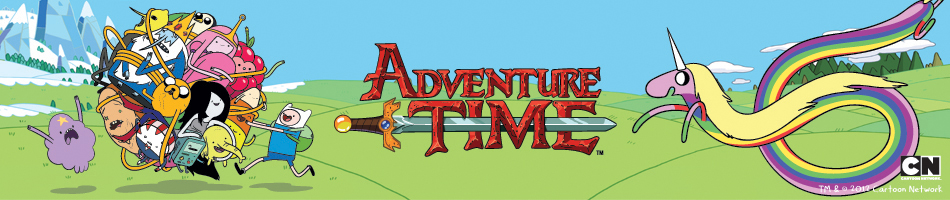
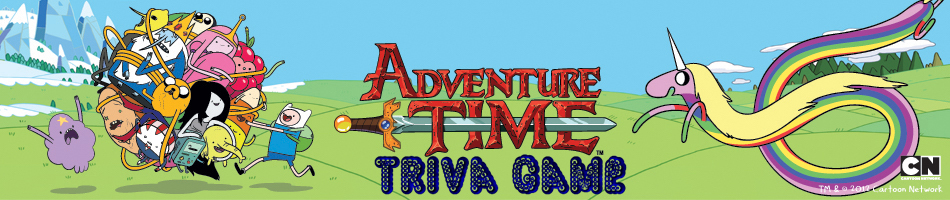
finished

Changed region(s): [[0.3968, 0.78, 0.6716, 0.99]]

diff --git a/assets/javascript/app.js b/assets/javascript/app.js
@@ -23,40 +23,40 @@ var triviaQuestions = [{
 	answerList: ["Jessica", "Gunther", "Lady Rainicorn", "The Ice Princess"],
 	answer: 2
 },{
-	question: "Which film won Pixar's first Academy Award for Best Animated Feature?",
-	answerList: ["Toy Story", "Finding Nemo", "Up", "Wall-E"],
-	answer: 1
+	question: "Who else lives with Finn and Jake?",
+	answerList: ["Thomas", "Peppermint Patty", "Ice King", "B-MO"],
+	answer: 3
 },{
-	question: "Who directed Pixar's first three feature films?",
-	answerList: ["Peter Docter", "Brad Bird", "John Lasseter", "Peter Sohn"],
+	question: "Who is the most spoiled princess?",
+	answerList: ["Princess Bubblegum", "Flame Princess", "Lumpy Space Princess", "Debra"],
 	answer: 2
 },{
-	question: "Who voiced Sadness in 'Inside Out'?",
-	answerList: ["Amy Poehler", "Phyllis Smith", "Mindy Kaling", "Phyllis Vance"],
-	answer: 1
-},{
-	question: "Billy Crystal voices Mike Wazowski in 'Monster, Inc.' but what role did he originally turn down from Pixar?",
-	answerList: ["Hopper", "Woody", "Marlin", "Buzz Lightyear"],
-	answer: 3
-},{
-	question: "The voice of WALL-E, Ben Burtt, also voiced what other famous robot?",
-	answerList: ["R2-D2", "Alpha 5", "C-3PO", "Astro Boy"],
+	question: "Who do Finn and Jake always have to rescue the princesses from?",
+	answerList: ["The Ice King", "Handsy Henry", "The Princess Burglar", "The Woodland Monster"],
 	answer: 0
 },{
-	question: "Brad Bird directed which animated film prior to taking on 'The Incredibles'?",
-	answerList: ["The Brave Little Toaster", "The Iron Giant", "Tarzan", "The Prince of Egypt"],
+	question: "Who is The Ice King's go-to penguin?",
+	answerList: ["Jebediah", "Gunther", "Marlin", "Socrates"],
 	answer: 1
 },{
-	question: "Pixar was originally a division of which studio?",
-	answerList: ["Dreamworks", "Industrial Light & Magic", "Disney", "Lucasfilm"],
-	answer: 3
+	question: "Whats the name of the 1000 year old Vampire that Finn befriends?",
+	answerList: ["Vladimir", "Drac", "Marceline", "Jimminy"],
+	answer: 2
 },{
-	question: "What is the name of the famour explorer from 'Up' that Carl looked up to as a boy?",
-	answerList: ["Charles F. Muntz", "Chuck M. James", "Charlie Rose", "Carl Carlton"],
+	question: "What is the name of the other Princess that Finn falls in love with later on?",
+	answerList: ["Flame Princess", "Oceana Princess", "Lumpy Space Princess", "Princess Bubble Gum"],
 	answer: 0
 },{
-	question: "'A Bug's Life' was loosely based on what other film?",
-	answerList: ["I Live in Fear", "Rashomon", "Seven Samurai", "Magneficent Seven"],
+	question: "Who is Heir to the Candy Kingdom?",
+	answerList: ["Samantha", "Prince of Candydrop Lane", "Earl of Lemongrab", "Jester of Gingerbreadville"],
+	answer: 2
+},{
+	question: "Who plays Finn in the alternate timeline?",
+	answerList: ["Finina", "Cake", "Firtha", "Fiona"],
+	answer: 3
+},{
+	question: "What year did the last episode of Finn and Jake Air?",
+	answerList: ["2015", "2016", "2017", "2018"],
 	answer: 2
 }];
 
